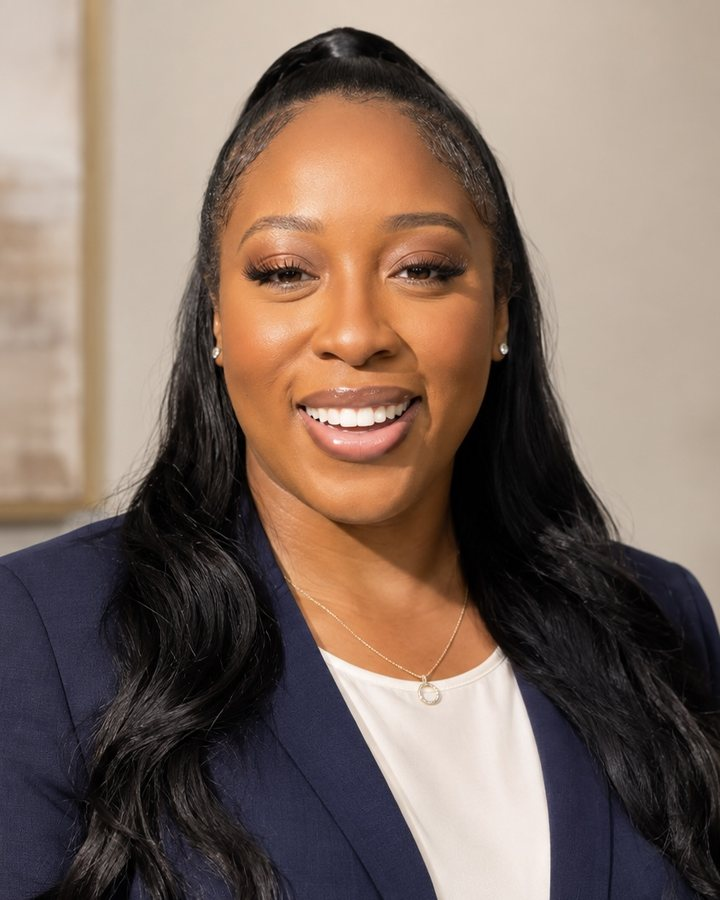
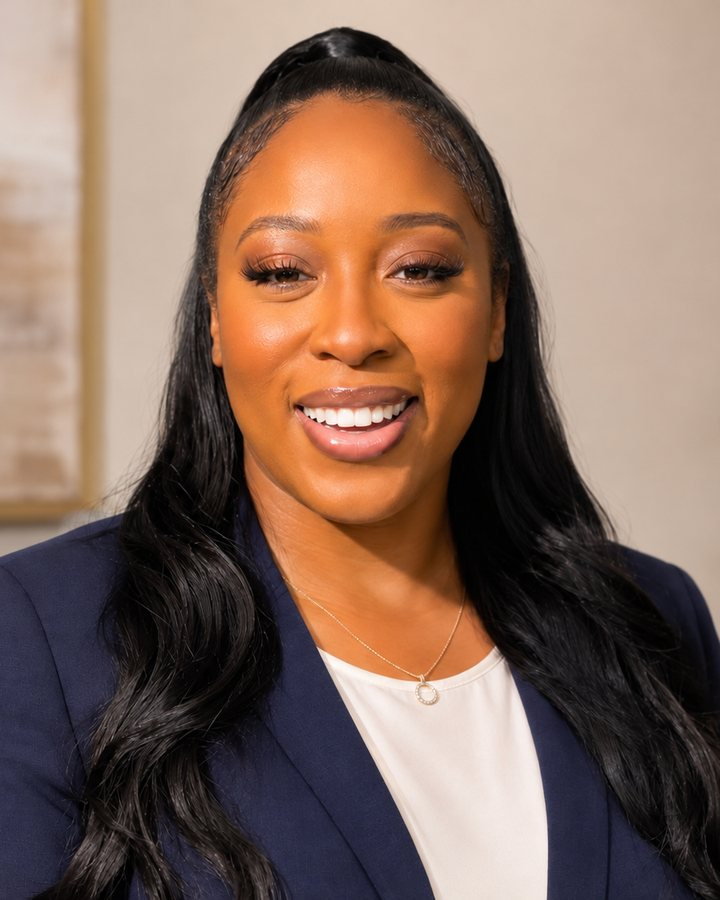
Switch founder headshot to updated photo
Claude-Session: https://claude.ai/code/session_01SeGHUohg97gDARBSMRd1fo

diff --git a/index.html b/index.html
@@ -960,7 +960,7 @@ body{margin:0}
 
   <section>
     <div class="wrap founder">
-      <div class="headshot"><img src="founder-headshot.jpg?v=2" alt="Portrait of Oluchi Nwaobia, founder of Olira Group" width="720" height="900"></div>
+      <div class="headshot"><img src="founder-headshot.jpg?v=3" alt="Portrait of Oluchi Nwaobia, founder of Olira Group" width="720" height="900"></div>
       <div class="bio">
         <p class="eyebrow">Founder &amp; Managing Principal</p>
         <h2>Oluchi Nwaobia, MPH, PMP, CSM</h2>
